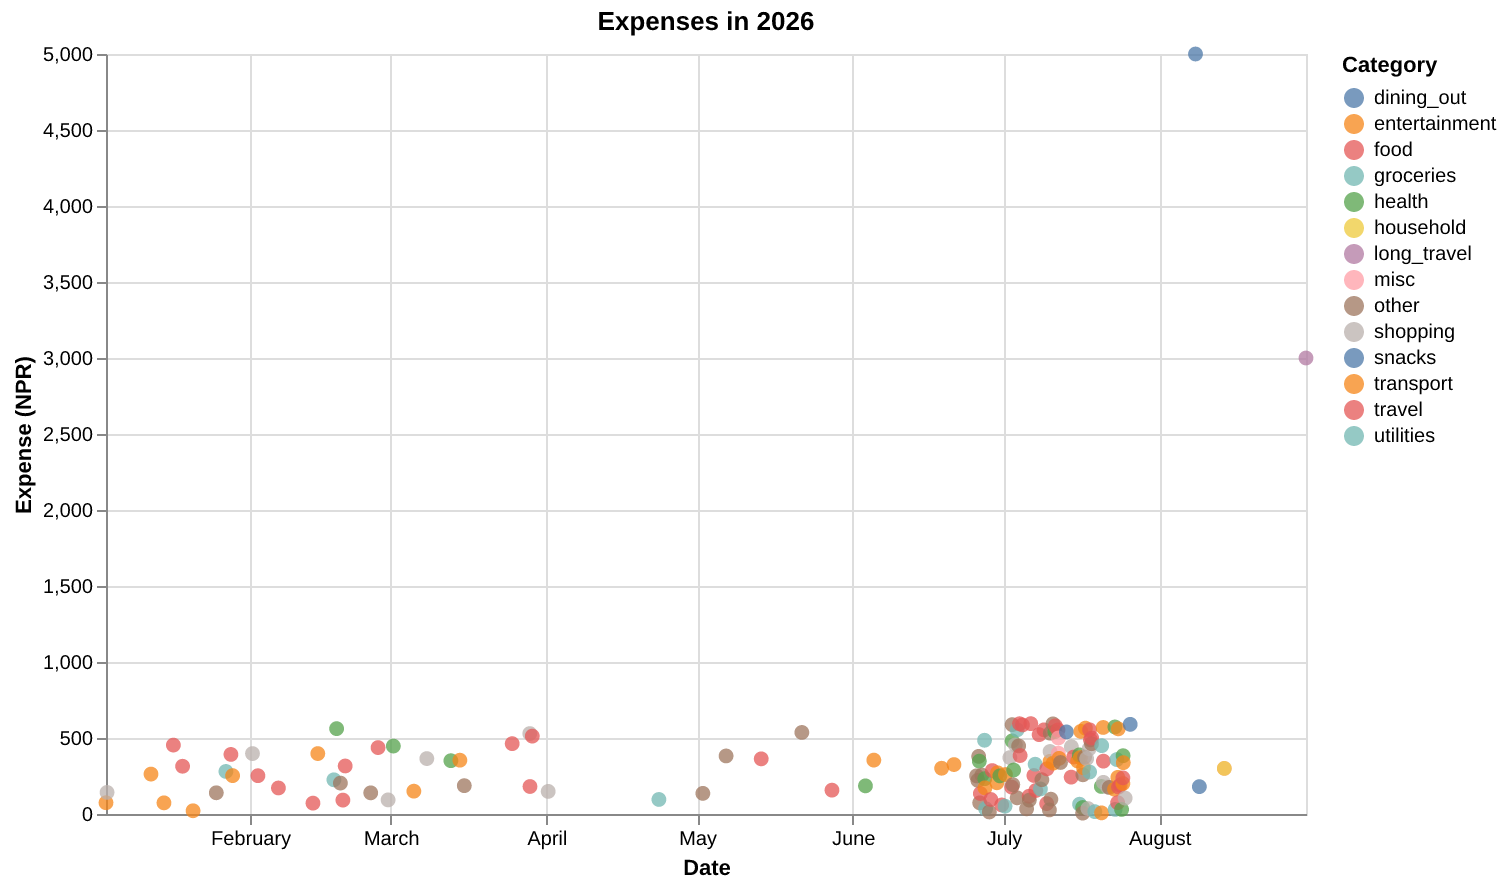
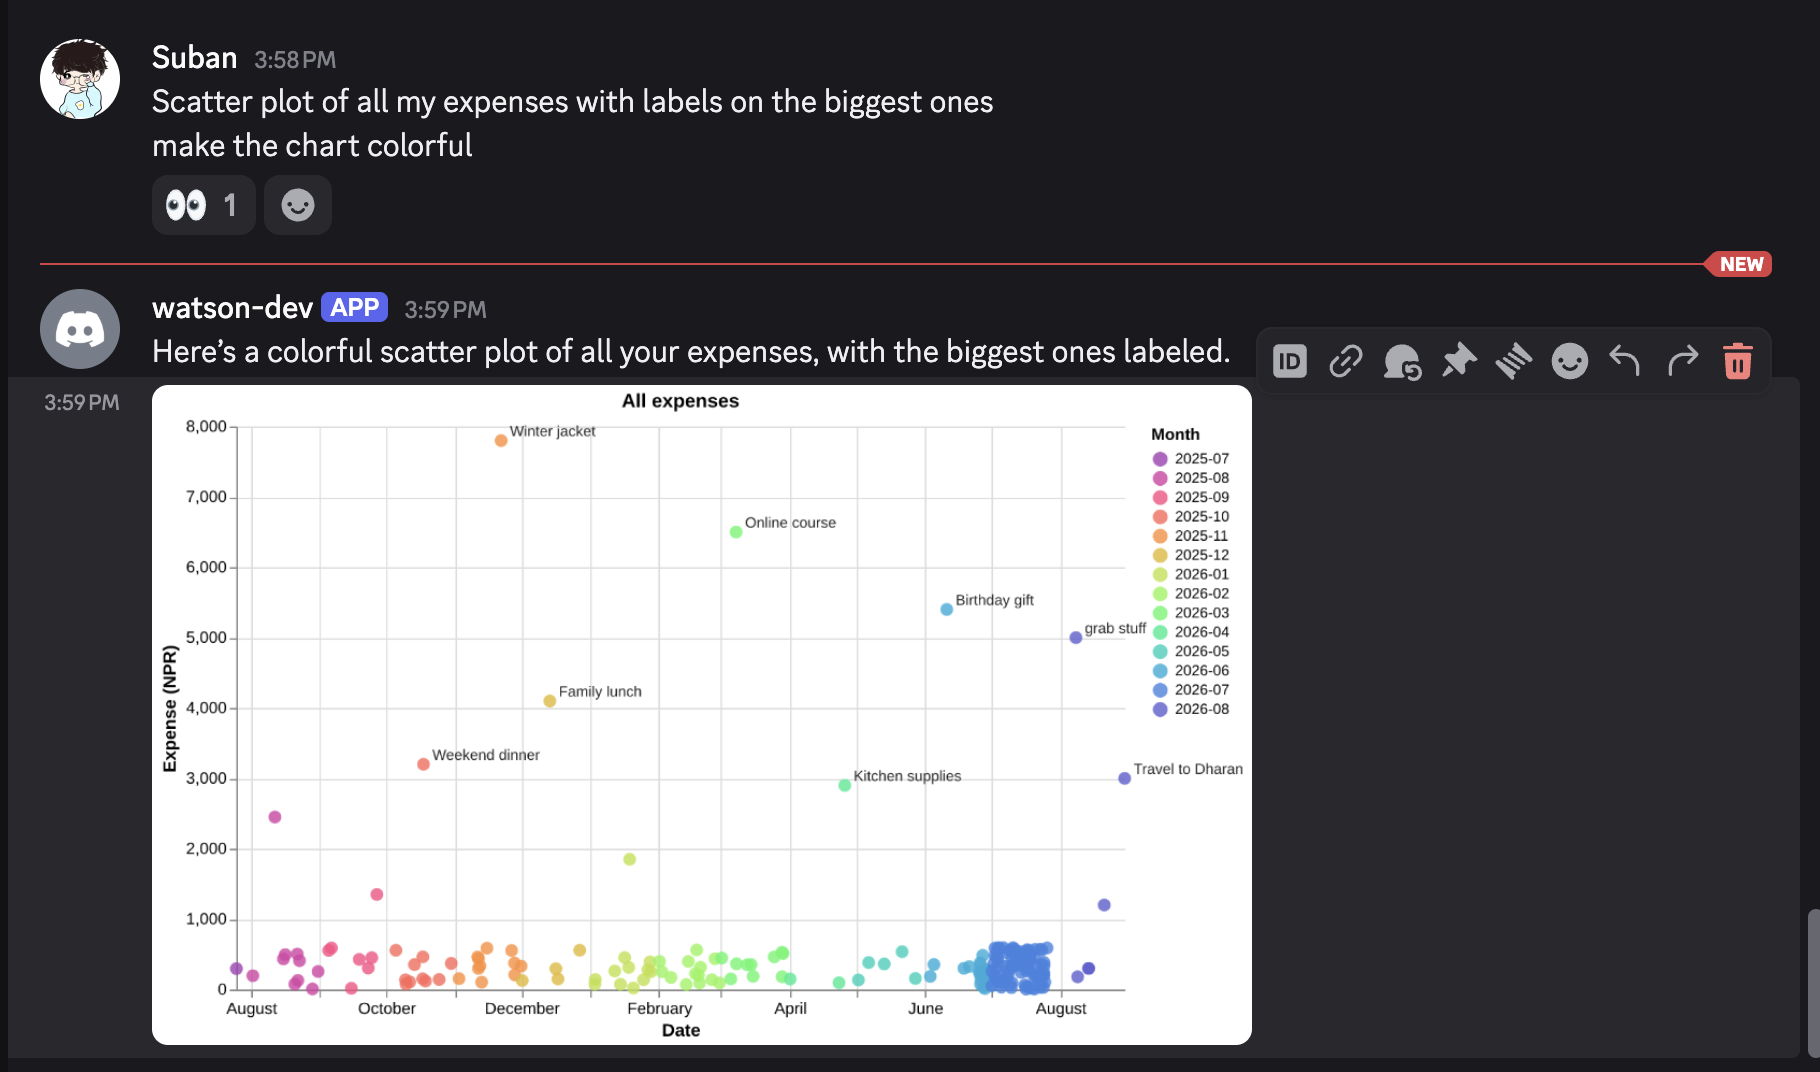
:memo: update the code mode article

diff --git a/src/content/writing/agent-charts-with-codemode-and-vega-lite/index.md b/src/content/writing/agent-charts-with-codemode-and-vega-lite/index.md
@@ -6,23 +6,29 @@ tags: [agents, llm]
 ---
 
 ### Motivation
-- Agent needs to make charts and after doing some light data analysis
-- Monty with CodeMode solves the analysis part, but it has strict restrictions on allowed libraries.
-- Scaffolding Matplotlib as a tool, while possible, is not a clean solution, and may raise security issues.
+- Say a user needs to make charts after doing some light data analysis.
+- Need to run the analysis and charting code in a sandboxed environment, so that the model can generate the chart without having access to the filesystem or network.
+- For this we can use CodeMode, which allows the model to write code in a sandboxed environment (here: Monty).
+- For Charting, we can turn Matplotlib into a tool, but this is not a clean solution, and may raise security issues with model writing arbitrary code.
 - Vega-Lite is a good alternative: specs are plain JSON, and should be in model training data.
 
 ### Background
-[CodeMode](https://blog.cloudflare.com/code-mode/): allow agents to write code instead of the usual tool calling, which allows for a more expressive and efficient operation.
-[Monty](https://github.com/pydantic/monty): A minimal sandbox for running python. Used by pydantic-ai's CodeMode.
-[Vega-Lite](https://vega.github.io/vega-lite/): A JSON grammar for declaratively defining charts.
+[CodeMode](https://blog.cloudflare.com/code-mode/): allow agents to write code instead of the usual tool calling, which allows for a more expressive and efficient operation.  
+[Monty](https://github.com/pydantic/monty): A minimal sandbox for running python. Used by pydantic-ai's CodeMode.  
+[Vega-Lite](https://vega.github.io/vega-lite/): A JSON grammar for declaratively defining charts.  
+
 
 > You also need a tool to get the data from, for me I have a tool that allows models to run DB queries. (With timeouts and only read access ofc)
+
+
 > And a tool to pass the generated json into Vega-Lite Converter, which converts the spec into an image
 
 ### How it works
-You can combine all these items for a flow like this
+You can combine all these items into a flow like this  
 
-Message: Scatter plot of all my expenses with labels on the biggest ones
+**Message**: Scatter plot of all my expenses with labels on the biggest ones  
+
+> *Now the model does a series of tool calls by writing code in CodeMode, and the final output is a chart.*
 
 > Model first loads the data
 
